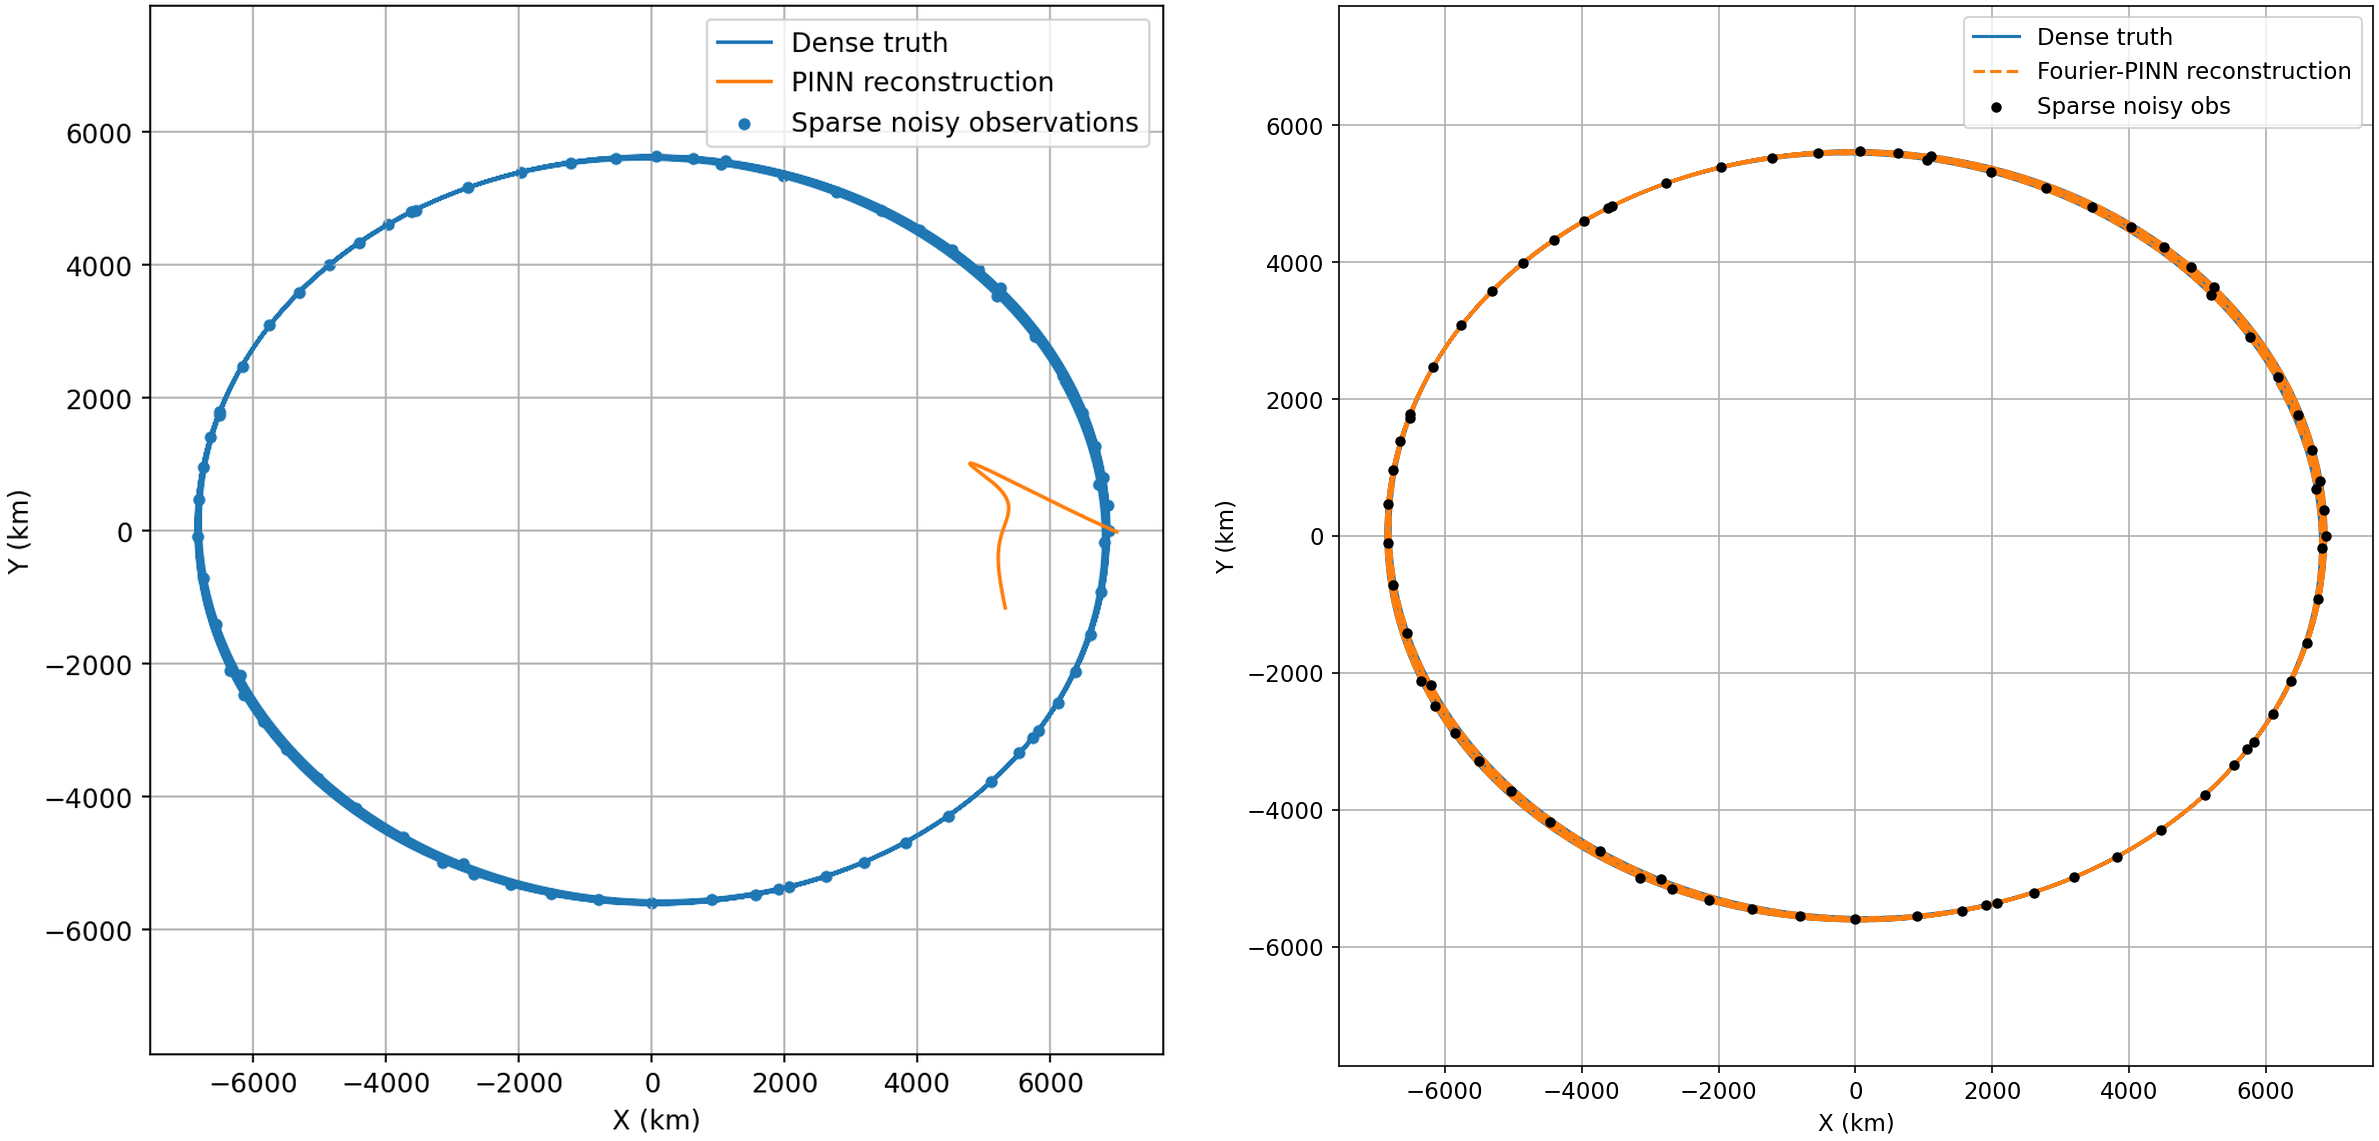
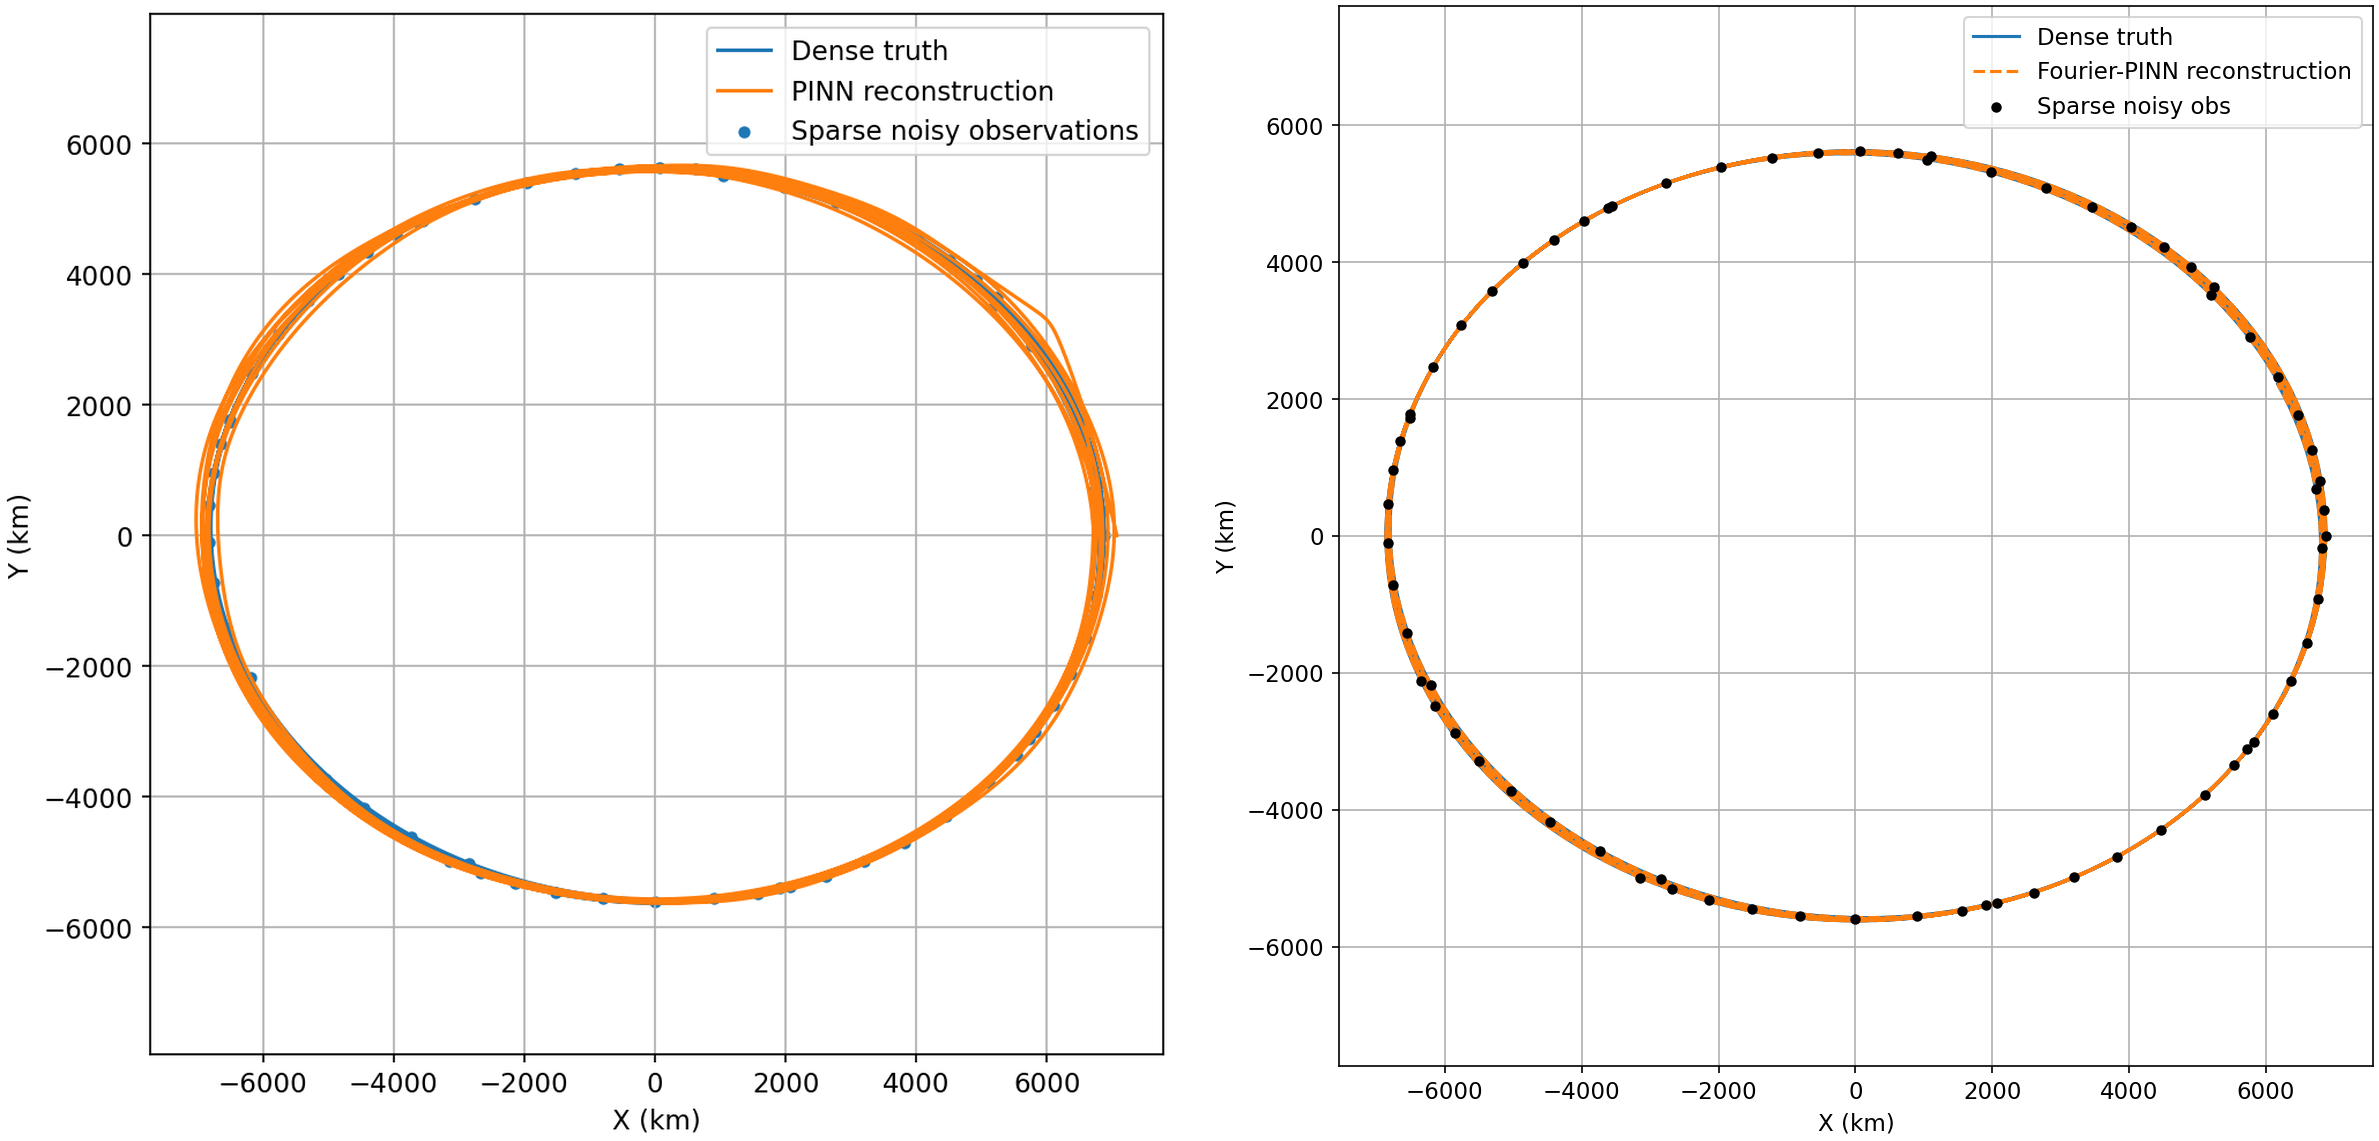
Report the best tuned plain MLP as the baseline
Adds best_mlp.py, which runs the best plain-MLP configuration from the
round-4 sweep over all five seeds and tunes the ISS branch, which had never
been swept. Two findings: the 130.9 km previously quoted was the best single
seed, and the five-seed mean is 254 +/- 145 km; the ISS plain MLP improves
from 7,907 km to 404.59 km when tuned.

Figure 2 now plots the tuned plain MLP at seed 42, matching the seed of the
Fourier panel so both architectures start from an identical initialization.

diff --git a/code/best_mlp.py b/code/best_mlp.py
@@ -1,0 +1,119 @@
+"""Victoria round 5: report the BEST tuned plain MLP as the baseline, not the
+matched-capacity one.
+
+(a) SYNTHETIC: best configuration from the round-4 sweep (width 256, depth 3,
+    5,000 epochs, lr 2e-3, IC weight 30) over the same five seeds, so the
+    baseline is reported as mean +/- SD like every other number in the paper.
+(b) ISS: the plain MLP there was never tuned. Sweep it, then run the best
+    configuration and report it.
+Also saves the tuned synthetic prediction so Figure 2 can be regenerated.
+"""
+import os
+os.environ["KMP_DUPLICATE_LIB_OK"]="TRUE"; os.environ.setdefault("OMP_NUM_THREADS","4")
+import json, math, time
+import numpy as np, torch, torch.nn as nn
+
+RES="results"
+out={}
+
+# ================================================================= SYNTHETIC
+src=open("synth_experiment.py",encoding="utf-8").read()
+g={}; exec(compile(src[:src.index("# ================= FOURIER PINN")],"setup","exec"), g)
+truth_t=g["truth_t"]; truth_state=g["truth_state"]
+obs_t_T=g["obs_t_T"]; obs_y_T=g["obs_y_T"]; y0_T=g["y0_T"]; eval_t_T=g["eval_t_T"]
+denorm=g["denorm"]; tsc=g["tsc"]; ref_speed=g["ref_speed"]; ref_acc=g["ref_acc"]
+tb_t=g["tb_t"]; j2_t=g["j2_t"]; drag_t=g["drag_t"]
+colloc_t_plain=g["colloc_t_plain"]; colloc_phys_plain=g["colloc_phys_plain"]
+
+class MLP(nn.Module):
+    def __init__(s,w,d):
+        super().__init__(); L=[]; i=1
+        for _ in range(d): L+=[nn.Linear(i,w),nn.Tanh()]; i=w
+        L+=[nn.Linear(i,6)]; s.net=nn.Sequential(*L)
+    def forward(s,t): return s.net(t)
+def fd(y,tp):
+    d=torch.zeros_like(y)
+    d[1:-1]=(y[2:]-y[:-2])/(tp[2:]-tp[:-2])
+    d[0]=(y[1]-y[0])/(tp[1]-tp[0]); d[-1]=(y[-1]-y[-2])/(tp[-1]-tp[-2]); return d
+
+def train_syn(seed,w=256,d=3,epochs=5000,lr=2e-3,dw=10.,iw=30.,pw=1.):
+    torch.manual_seed(seed); np.random.seed(seed)
+    m=MLP(w,d); logd=nn.Parameter(torch.tensor(math.log(1e-5),dtype=torch.float32))
+    opt=torch.optim.Adam(list(m.parameters())+[logd],lr=lr)
+    for ep in range(epochs):
+        opt.zero_grad()
+        data=torch.mean((m(obs_t_T)-obs_y_T)**2)
+        ic=torch.mean((m(torch.zeros(1,1))-y0_T)**2)
+        yc=denorm(m(colloc_t_plain)); dy=fd(yc,colloc_phys_plain)
+        r,v=yc[:,:3],yc[:,3:]
+        acc=tb_t(r)+j2_t(r)+drag_t(r,v,torch.exp(logd))
+        phys=torch.mean(((dy[:,:3]-v)/ref_speed)**2)+torch.mean(((dy[:,3:]-acc)/ref_acc)**2)
+        (dw*data+iw*ic+pw*phys).backward()
+        torch.nn.utils.clip_grad_norm_(list(m.parameters())+[logd],1.0); opt.step()
+    m.eval()
+    with torch.no_grad(): pred=denorm(m(eval_t_T)).numpy()
+    p=float(np.sqrt(np.mean(np.sum((pred[:,:3]-truth_state[:,:3])**2,axis=1))))
+    v=float(np.sqrt(np.mean(np.sum((pred[:,3:]-truth_state[:,3:])**2,axis=1))))*1000.0
+    return p,v,pred
+
+print("=== SYNTHETIC: best config (w=256,d=3,5000ep) over 5 seeds ===",flush=True)
+P=[];V=[];preds={}
+for sd in (42,43,44,45,46):
+    t0=time.time(); p,v,pred=train_syn(sd); P.append(p); V.append(v); preds[sd]=pred
+    print(f"  seed {sd}: pos={p:8.2f} km  vel={v:8.2f} m/s   [{time.time()-t0:.0f}s]",flush=True)
+P=np.array(P); V=np.array(V)
+out["synthetic_best"]=dict(config="width 256, depth 3, 5000 epochs, lr 2e-3, IC weight 30",
+    pos_mean=float(P.mean()),pos_sd=float(P.std()),vel_mean=float(V.mean()),vel_sd=float(V.std()),
+    per_seed_pos=[float(z) for z in P])
+print(f"  => {P.mean():.2f} +/- {P.std():.2f} km | {V.mean():.2f} +/- {V.std():.2f} m/s\n",flush=True)
+np.savez_compressed(RES+"/best_mlp_synth.npz",pred42=preds[42],truth=truth_state,t=truth_t)
+
+# ======================================================================= ISS
+src2=open("iss_experiment.py",encoding="utf-8").read()
+h={}; exec(compile(src2[:src2.index("# ---------- Fourier PINN")],"iss_setup","exec"), h)
+ic_T=h["ic_T"]; t_obs_T=h["t_obs_T"]; y_obs_T=h["y_obs_T"]; denorm_t=h["denorm_t"]
+acc_t=h["acc_t"]; TSC=h["TSC"]; nt=h["nt"]; dstate=h["dstate"]
+t_dense=h["t_dense"]; y_dense=h["y_dense"]; PRIOR_B=h["PRIOR_B"]; ICPINN=h["ICPINN"]
+
+def train_iss(seed=42,w=96,d=4,epochs=500,lr=1e-3):
+    torch.manual_seed(seed)
+    m=ICPINN(ic_T,w,d); logB=nn.Parameter(torch.tensor(math.log(PRIOR_B),dtype=torch.float32))
+    opt=torch.optim.Adam(list(m.parameters())+[logB],lr=lr)
+    sch=torch.optim.lr_scheduler.StepLR(opt,step_size=max(epochs//3,1),gamma=0.5)
+    tcol=torch.linspace(0,1,160).reshape(-1,1)
+    W={"data":20,"ic":10,"physics":1,"prior":0.05}; lp=math.log(PRIOR_B)
+    for ep in range(epochs):
+        opt.zero_grad()
+        data=torch.mean((m(t_obs_T)-y_obs_T)**2)
+        ic=torch.mean((m(torch.zeros(1,1))-ic_T)**2)
+        tc=tcol.clone().detach().requires_grad_(True); ps=denorm_t(m(tc))
+        gr=[torch.autograd.grad(ps[:,i:i+1],tc,torch.ones_like(ps[:,i:i+1]),
+            create_graph=True,retain_graph=True)[0] for i in range(6)]
+        dyt=torch.cat(gr,dim=1)/TSC; r=ps[:,:3]; v=ps[:,3:]
+        phys=torch.mean(((dyt[:,:3]-v)/7600.0)**2)+torch.mean(((dyt[:,3:]-acc_t(r,v,logB))/8.7)**2)
+        (W["data"]*data+W["ic"]*ic+W["physics"]*phys+W["prior"]*(logB-lp)**2).backward()
+        torch.nn.utils.clip_grad_norm_(list(m.parameters())+[logB],1.0); opt.step(); sch.step()
+    m.eval()
+    with torch.no_grad(): pred=dstate(m(torch.tensor(nt(t_dense),dtype=torch.float32)).numpy())
+    p=float(np.sqrt(np.mean(np.sum((pred[:,:3]-y_dense[:,:3])**2,axis=1))))/1000.0
+    v=float(np.sqrt(np.mean(np.sum((pred[:,3:]-y_dense[:,3:])**2,axis=1))))
+    return p,v,pred
+
+print("=== ISS: plain-MLP tuning sweep ===",flush=True)
+CFG=[dict(w=96,d=4,epochs=500,lr=1e-3,tag="published baseline"),
+     dict(w=96,d=4,epochs=5000,lr=1e-3,tag="epochs 500->5000"),
+     dict(w=256,d=3,epochs=5000,lr=1e-3,tag="width 256, depth 3"),
+     dict(w=256,d=4,epochs=5000,lr=2e-3,tag="width 256, depth 4, lr 2e-3"),
+     dict(w=512,d=3,epochs=5000,lr=1e-3,tag="width 512, depth 3")]
+sweep=[]
+for c in CFG:
+    tag=c.pop("tag"); t0=time.time(); p,v,_=train_iss(**c)
+    sweep.append(dict(tag=tag,pos_km=p,vel_ms=v,**c))
+    print(f"  {tag:30s} pos={p:9.2f} km  vel={v:8.1f} m/s  [{time.time()-t0:.0f}s]",flush=True)
+best=min(sweep,key=lambda r:r["pos_km"])
+out["iss_sweep"]=sweep; out["iss_best"]=best
+print(f"\n  BEST ISS plain MLP: {best['pos_km']:.2f} km ({best['tag']})")
+print( "  ISS Fourier PINN for comparison: 5.68 km")
+
+json.dump(out,open(RES+"/best_mlp.json","w"),indent=2)
+print("\nsaved results/best_mlp.json")

diff --git a/code/make_figures.py b/code/make_figures.py
@@ -34,7 +34,10 @@ sci_y(ax); sci_x(ax); ax.legend()
 save(fig,"image1.png",3.6724,2.3853)
 
 # ---- Figure 2a: plain MLP synthetic reconstruction (image2) ----
-ts=S["truth_state"]; ob=S["obs_state_noisy"]; pp=S["plain_pred42"]
+ts=S["truth_state"]; ob=S["obs_state_noisy"]
+# Victoria round 5: plot the BEST TUNED plain MLP (width 256, depth 3, 5,000 epochs),
+# seed 42 - the same seed as the Fourier panel, so the two panels are comparable.
+pp=np.load(R+"/best_mlp_synth.npz")["pred42"]
 fig,ax=plt.subplots(constrained_layout=True)
 ax.plot(ts[:,0],ts[:,1],label="Dense truth")
 ax.plot(pp[:,0],pp[:,1],label="PINN reconstruction")

diff --git a/README.md b/README.md
@@ -11,6 +11,7 @@ python grid_refine.py           # classical drag estimator + observation-window 
 python phys_sweep.py            # physics-loss-weight sweep
 python warmup_5seeds.py         # warm-up / error-distribution check
 python plain_mlp_tuning.py      # plain-MLP diagnostic + hyperparameter sweep
+python best_mlp.py              # best tuned plain MLP over 5 seeds + ISS sweep
 python stats_tests.py           # Wilcoxon / paired t-test comparisons
 python make_figures.py          # regenerates Figures 1-6
 ```
